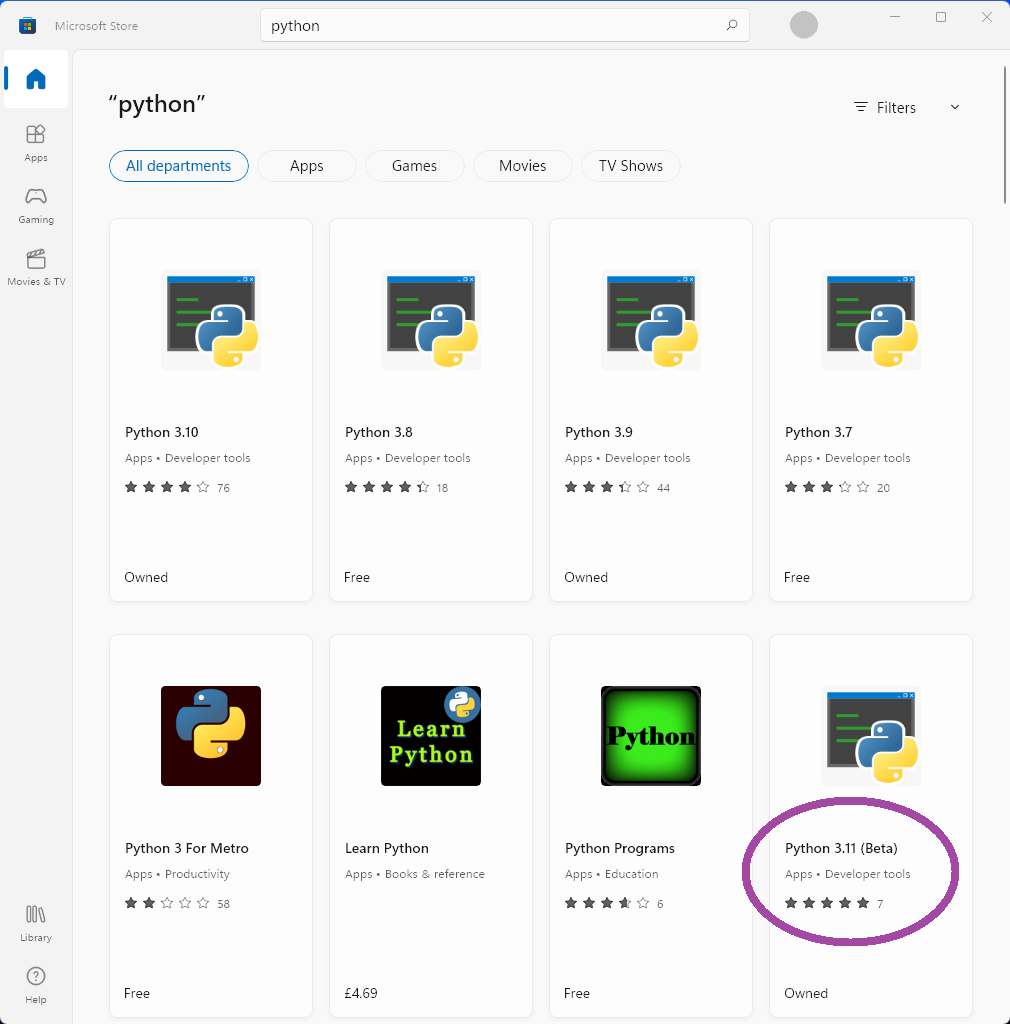
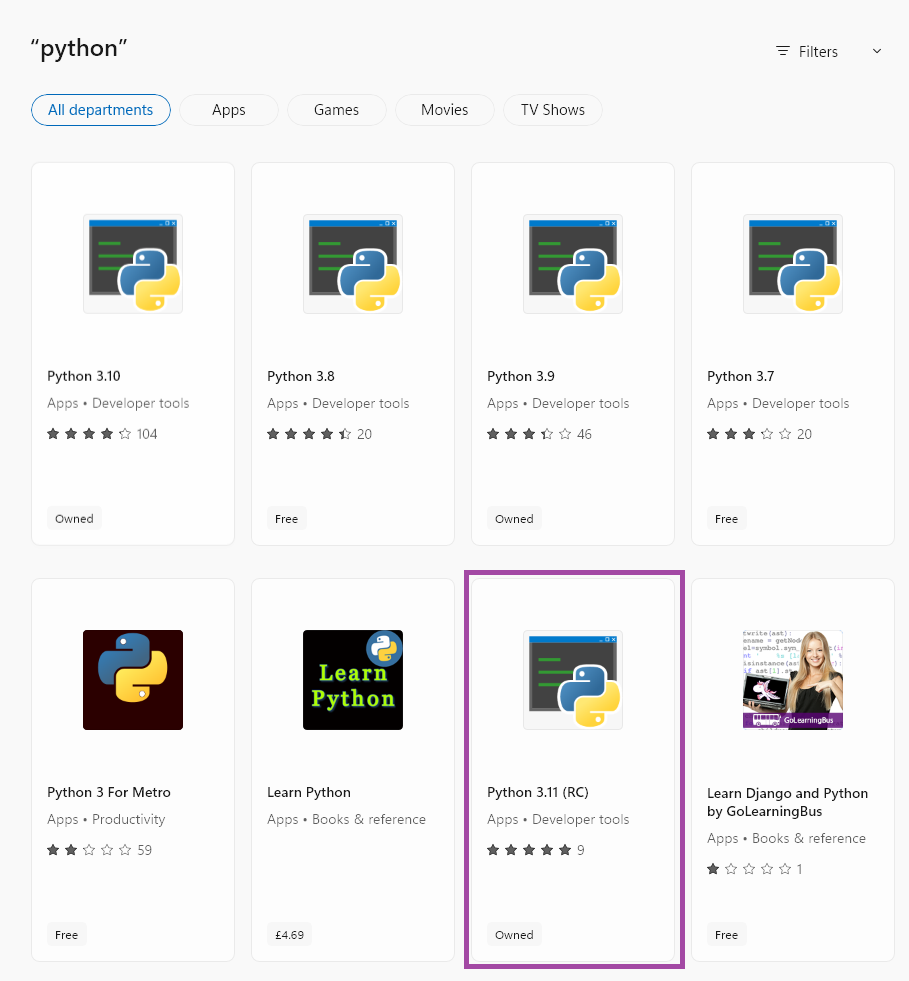
update image in installation.md for py 311 rc

diff --git a/INSTALLATION.md b/INSTALLATION.md
@@ -1,6 +1,6 @@
 ## Python Installation
 
-If you don't have Python already you can fetch it easily from the Windows Store. Simply type `store` into the windows search bar. To run this GUI you'll need the latest version, Python 3.11 (Beta).
+If you don't have Python already you can fetch it easily from the Windows Store. Simply type `store` into the windows search bar. To run this GUI you'll need the latest version, Python 3.11 (RC).
 
 ![Image of Python 311 in Windows Store](./doc_imgs/python311.png)
 
@@ -25,6 +25,7 @@ Then use the command `pip install voicemeeter-compact` and wait for the required
 ## Use
 
 You will need to set the kind of Voicemeeter you want to run in the `__main__.py` file. Just edit the kind_id line to one of the following:
+
 -   basic
 -   banana
 -   potato
